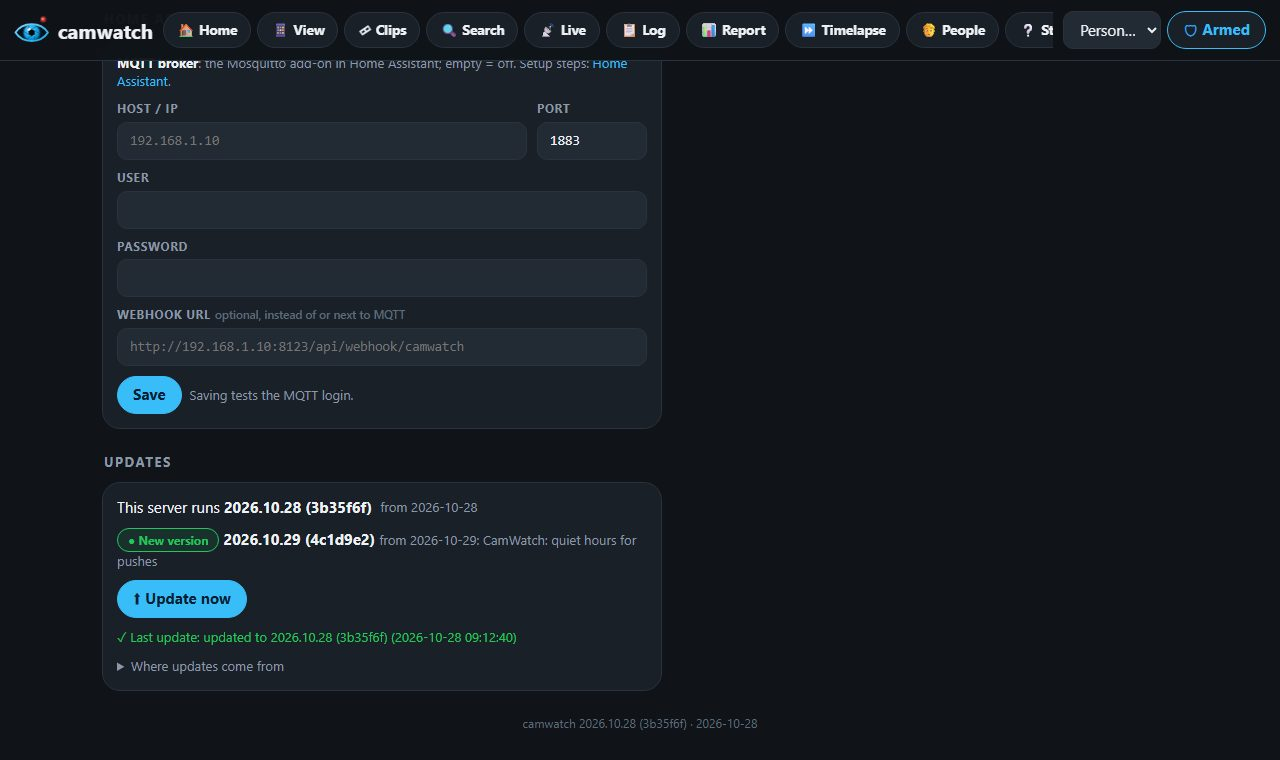
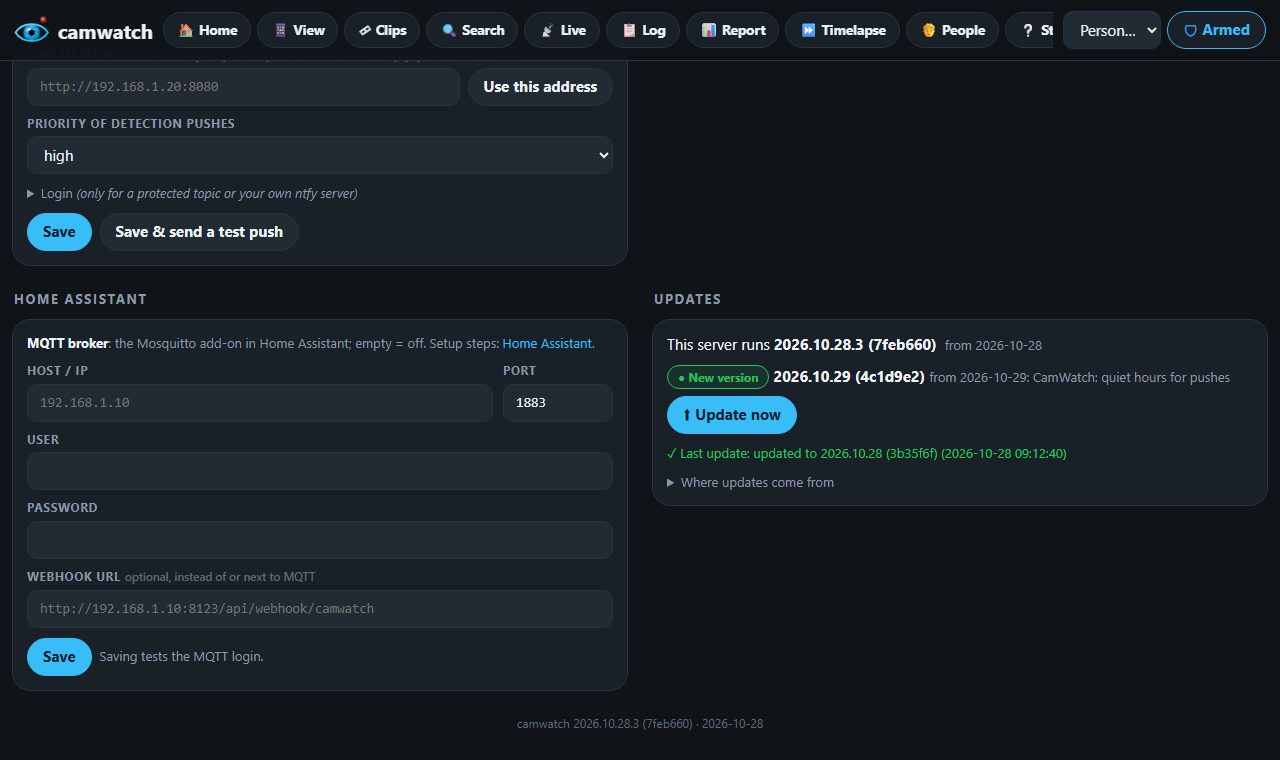
CamWatch: Settings sections side by side on a computer
Alerts and login with Snooze, Notifications with Off-site storage,
Home Assistant with Updates. Cameras keep the full width.
On a phone the sections stay one below the other.

diff --git a/CamWatch/app/webui.py b/CamWatch/app/webui.py
@@ -2389,6 +2389,16 @@ yesterday becomes a timelapse and a highlights reel (4 s of every recording with
 {% elif saved == 'offsite-off' %}<p class="box ok">Off-site storage disconnected. Files already uploaded stay where they are.</p>
 {% elif saved == 'integration' %}<p class="box ok">Saved.{% if mqtt == 'ok' %} MQTT login works - camwatch connects within 10 seconds.{% elif mqtt %} <span class="bad">MQTT test failed: {{ mqtt }}</span>{% endif %}</p>
 {% elif saved %}<p class="box ok">Saved. The recorder picks it up within a few seconds.</p>{% endif %}
+<style>
+/* the sections in pairs, side by side on a wide screen; one below the other on a phone */
+main{max-width:1320px}
+.spair{display:grid;gap:0 24px;align-items:start}
+@media (min-width:980px){.spair{grid-template-columns:repeat(2,minmax(0,1fr))}}
+.spair > section{min-width:0}
+.spair .box{max-width:none !important}
+</style>
+<div class="spair"><section>
+<h2 id="alerts">Alerts and login</h2>
 <form method="post" class="box" style="display:grid;gap:14px;max-width:560px">
 <div><b>Alerts</b><p class="muted" style="margin:4px 0">Recording continues in every mode; disarmed only silences push notifications.
 Home Assistant still receives every event (with <code>armed: false</code>) and has an <b>Armed</b> switch.</p>
@@ -2441,6 +2451,7 @@ function addNet(net, label) {
 A VPN only works here if its traffic reaches camwatch with the VPN address (routed, not NAT/masquerade to the router's address).</p>
 {% else %}<p class="muted" style="margin:4px 0">No password is set (<code>WEB_PASSWORD</code> in <code>.env</code> is empty), so no login is asked anywhere.</p>{% endif %}</div>
 <div><button class="primary">Save</button></div></form>
+</section><section>
 <h2 id="snooze">Snooze</h2>
 <p class="muted">No pushes from one camera for a while (recording and Home Assistant carry on). Pushes also have a <b>Snooze 1h</b> button.</p>
 <div class="box" style="display:grid;gap:8px;max-width:560px">{% for c in cams %}
@@ -2456,6 +2467,7 @@ A VPN only works here if its traffic reaches camwatch with the VPN address (rout
 <p class="muted">Starred clips are never deleted automatically. Clips where someone was identified or tagged are kept longer
 (<code>RETENTION_KEEP_DAYS</code>) than other clips (<code>RETENTION_DAYS</code>). When the disk runs low, untagged clips go first.
 Retention periods are set in <code>/opt/camwatch/.env</code>.</p>
+</section></div>
 
 <h2 id="cameras">Cameras <span class="muted">· up to {{ slots|length }}</span></h2>
 <style>
@@ -2624,6 +2636,7 @@ function fill(main, det, cam) {
 }
 </script>
 
+<div class="spair"><section>
 <h2 id="ntfy">Notifications</h2>
 <form method="post" action="{{ url_for('save_ntfy') }}" class="box" style="display:grid;gap:10px;max-width:560px">
 <p class="muted" style="margin:0">Push notifications go through <a href="https://ntfy.sh" target="_blank" rel="noopener">ntfy</a>: install the ntfy app and subscribe to the topic.
@@ -2645,6 +2658,7 @@ On the public ntfy.sh server anyone who knows the topic can read it, so use a lo
 {% if nt.password %}<label><input type="checkbox" name="clear_password" value="1"> Remove the saved password</label>{% endif %}</div></details>
 <div class="row"><button class="primary">Save</button><button name="test" value="1">Save &amp; send a test push</button></div></form>
 
+</section><section>
 <h2 id="offsite">Off-site storage</h2>
 <div class="box" style="display:grid;gap:12px;max-width:640px">
 <p class="muted" style="margin:0">Copies of clips in the cloud or on a NAS, so the footage survives when this server is stolen or breaks.
@@ -2755,6 +2769,9 @@ async function offTest(btn) {
 }
 </script>
 
+</section></div>
+
+<div class="spair"><section>
 <h2 id="ha">Home Assistant</h2>
 <form method="post" action="{{ url_for('save_integration') }}" class="box" style="display:grid;gap:10px;max-width:560px">
 <p class="muted" style="margin:0"><b style="color:var(--fg)">MQTT broker</b>: the Mosquitto add-on in Home Assistant; empty = off. Setup steps: <a href="{{ url_for('ha_page') }}">Home Assistant</a>.</p>
@@ -2766,7 +2783,7 @@ async function offTest(btn) {
 {% if integ.mqtt_password %}<label><input type="checkbox" name="clear_password" value="1"> Remove the saved password</label>{% endif %}
 <label class="field"><span>Webhook URL <i>optional, instead of or next to MQTT</i></span><input type="text" name="ha_webhook_url" value="{{ integ.ha_webhook_url }}" placeholder="http://192.168.1.10:8123/api/webhook/camwatch" spellcheck="false"></label>
 <div class="row"><button class="primary">Save</button> <span class="muted">Saving tests the MQTT login.</span></div></form>
-
+</section><section>
 <h2 id="updates">Updates</h2>
 <div class="box" style="display:grid;gap:10px;max-width:560px">
 <div class="row"><span>This server runs <b>{{ app_version.text }}</b></span>{% if app_version.date %}<span class="muted">from {{ app_version.date }}</span>{% endif %}</div>
@@ -2830,6 +2847,7 @@ async function followUpdate() {
   }
 }
 </script>
+</section></div>
 <script>
 document.querySelectorAll('.camcard input[name^=name_]').forEach(inp => inp.addEventListener('input', () => {
   inp.closest('.camcard').querySelector('.title').textContent = inp.value.trim() || 'New camera';

diff --git a/CamWatch/dev/screenshots.py b/CamWatch/dev/screenshots.py
@@ -35,6 +35,7 @@ PAGES = [
     ("zones", "/zones", 1280, 980, False),
     ("report", "/report", 1280, 1150, False),
     ("strangers", "/strangers", 1280, 820, False),
+    ("settings", "/settings", 1440, 1050, False),
     ("settings-cameras", "/settings#cameras", 1280, 1000, False),
     ("settings-offsite", "/settings#offsite", 1280, 900, False),
     ("settings-updates", "/settings#updates", 1280, 760, False),

diff --git a/CamWatch/README.md b/CamWatch/README.md
@@ -43,6 +43,7 @@ Self-hosted camera service for one RTSP camera: motion and object detection (YOL
 | ![Dashboard](docs/screenshots/dashboard.jpg)<br>**Dashboard**: shows a summary of today, the live cameras and a tile for every page. | ![Clips](docs/screenshots/clips.jpg)<br>**Clips**: lists the clips of each day on a timeline. You can filter and tag the clips. |
 | ![Clip](docs/screenshots/clip.jpg)<br>**Clip**: plays one clip. *Play all* plays every camera in the same visit. You can name the faces. | ![Live](docs/screenshots/live.jpg)<br>**Live**: shows every camera live. A button tests the whole chain from camera to phone alert. |
 | ![Zones](docs/screenshots/zones.jpg)<br>**Zones**: you draw the areas that start, ignore or mark activity for each camera. | ![Report](docs/screenshots/report.jpg)<br>**Report**: counts visits per day and per hour. A map shows where people walk most often. |
+| ![Settings](docs/screenshots/settings.jpg)<br>**Settings**: shows the sections in pairs, side by side on a wide screen. | |
 | ![Strangers](docs/screenshots/strangers.jpg)<br>**Strangers**: groups unknown faces that come back. You name each person once. | ![Cameras](docs/screenshots/settings-cameras.jpg)<br>**Settings, cameras**: holds up to 4 cameras. *Find* searches your network for cameras. |
 | ![Off-site](docs/screenshots/settings-offsite.jpg)<br>**Settings, off-site copies**: copies clips to iCloud, Google Drive or another place. Home Assistant settings follow below. | ![Updates](docs/screenshots/settings-updates.jpg)<br>**Settings, updates**: shows the running version. *Update now* installs a newer version from GitHub. |
 

diff --git a/CamWatch/CHANGELOG.md b/CamWatch/CHANGELOG.md
@@ -4,6 +4,10 @@ Newest changes first.
 
 ## 2026-10-28
 
+- On a computer, Settings shows its sections in pairs, side by side.
+- The pairs: Alerts and login with Snooze, Notifications with Off-site storage, Home Assistant with Updates.
+- Cameras keep the full width. On a phone, all sections stay one below the other.
+- The version is now 2026.10.28.4.
 - An update no longer fails because of a container that was broken before the update.
 - `release.sh` lists those containers at the end and skips them in the health check.
 - `presence` waits quietly when `.env` has no `DB_PASSWORD`. Before this fix, it was unhealthy.
